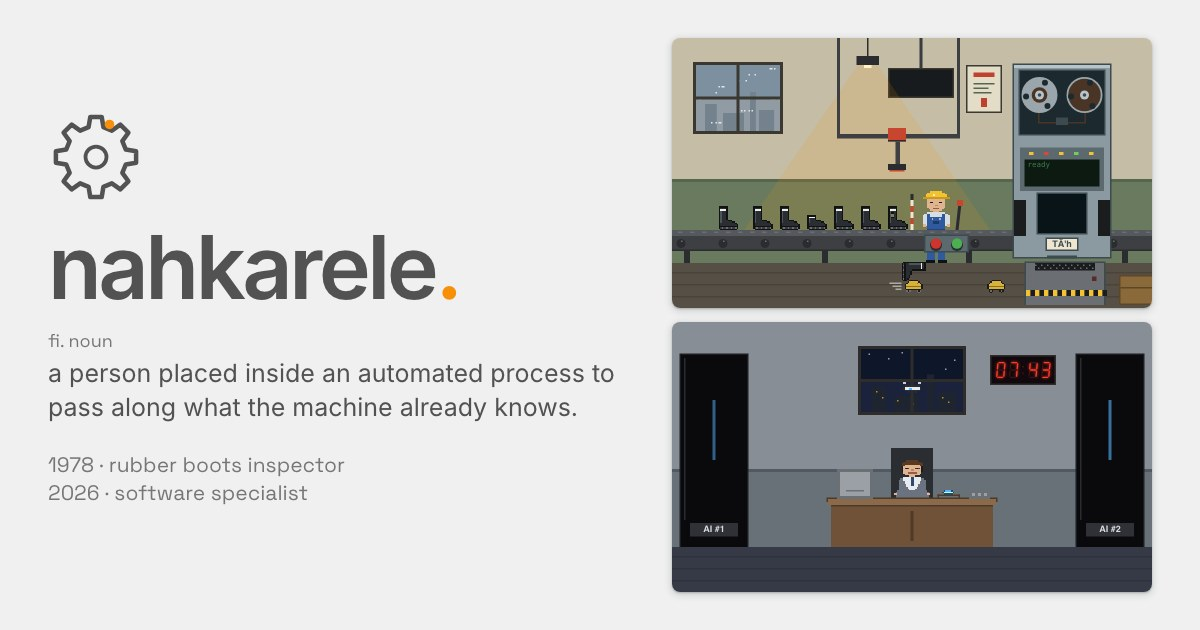
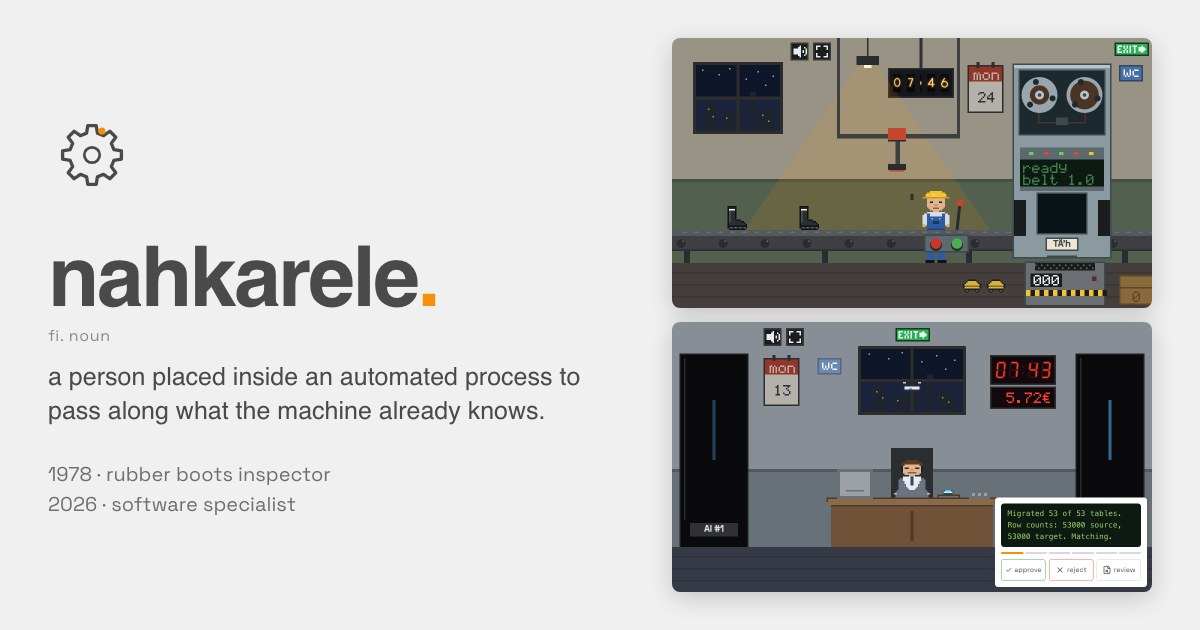
og.jpg re-rendered from the rooms as they are, by scripts/gen-og.mjs
The card captures both rooms live from a dev server and composes the same layout as before; re-run it after a scene change.

diff --git a/CLAUDE.md b/CLAUDE.md
@@ -73,6 +73,8 @@ builds only) ·
 `static/favicon.svg`, then `scripts/gen-icons.sh` (needs librsvg + ImageMagick). Tape: edit
 `src/lib/tape/orientation.json`, then `uv run scripts/gen-tape.py` (Piper on mini, ffmpeg); it
 re-sings each line on held notes and writes `static/tape/orientation.mp3` + `tape.json` cues.
+Link card: `yarn dev`, then `SITE=http://localhost:5173 node scripts/gen-og.mjs` (borrows a
+playwright install, see the script) captures both rooms into `static/og.jpg`.
 
 ## Out of scope
 
